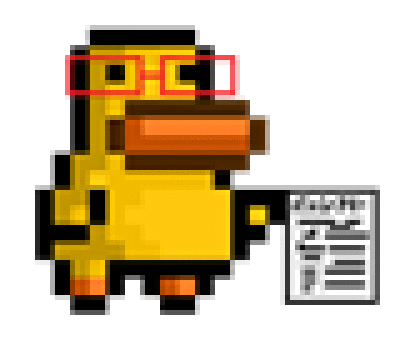
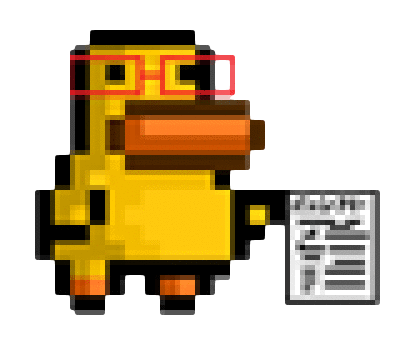
added helper in game

diff --git a/ducktales/src/main/java/uq/deco2800/ducktales/features/helper/HelperManager.java b/ducktales/src/main/java/uq/deco2800/ducktales/features/helper/HelperManager.java
@@ -2,6 +2,7 @@ package uq.deco2800.ducktales.features.helper;
 
 import javafx.fxml.FXML;
 import javafx.scene.control.Label;
+import javafx.scene.image.Image;
 import javafx.scene.image.ImageView;
 import javafx.scene.layout.AnchorPane;
 
@@ -13,6 +14,16 @@ public class HelperManager {
 	private ImageView helperImageView;
 	@FXML
 	private Label helperLabel;
+	
+	private Image duckImage = new Image("/helper/helper.png");
+	
+	@FXML
+	public void helperLoad1() {
+		helperImageView.setImage(duckImage);
+		helperLabel.setText("quack quack quack...");
+		
+	}
+	
 	
 	
 	public void showHelper() {

diff --git a/ducktales/src/main/java/uq/deco2800/ducktales/GameController.java b/ducktales/src/main/java/uq/deco2800/ducktales/GameController.java
@@ -582,10 +582,10 @@ public class GameController implements Initializable{
             rootPane.getChildren().add(root);
             
             // position the level pane
-            AnchorPane.setBottomAnchor(root, 10.0);
+            AnchorPane.setTopAnchor(root, 580.0);
             AnchorPane.setLeftAnchor(root, 350.0);            
 
-            helperManager.hideHelper();
+            //helperManager.hideHelper();
             
         } catch (IOException e) {
             System.err.println("Unable to load Helper");
